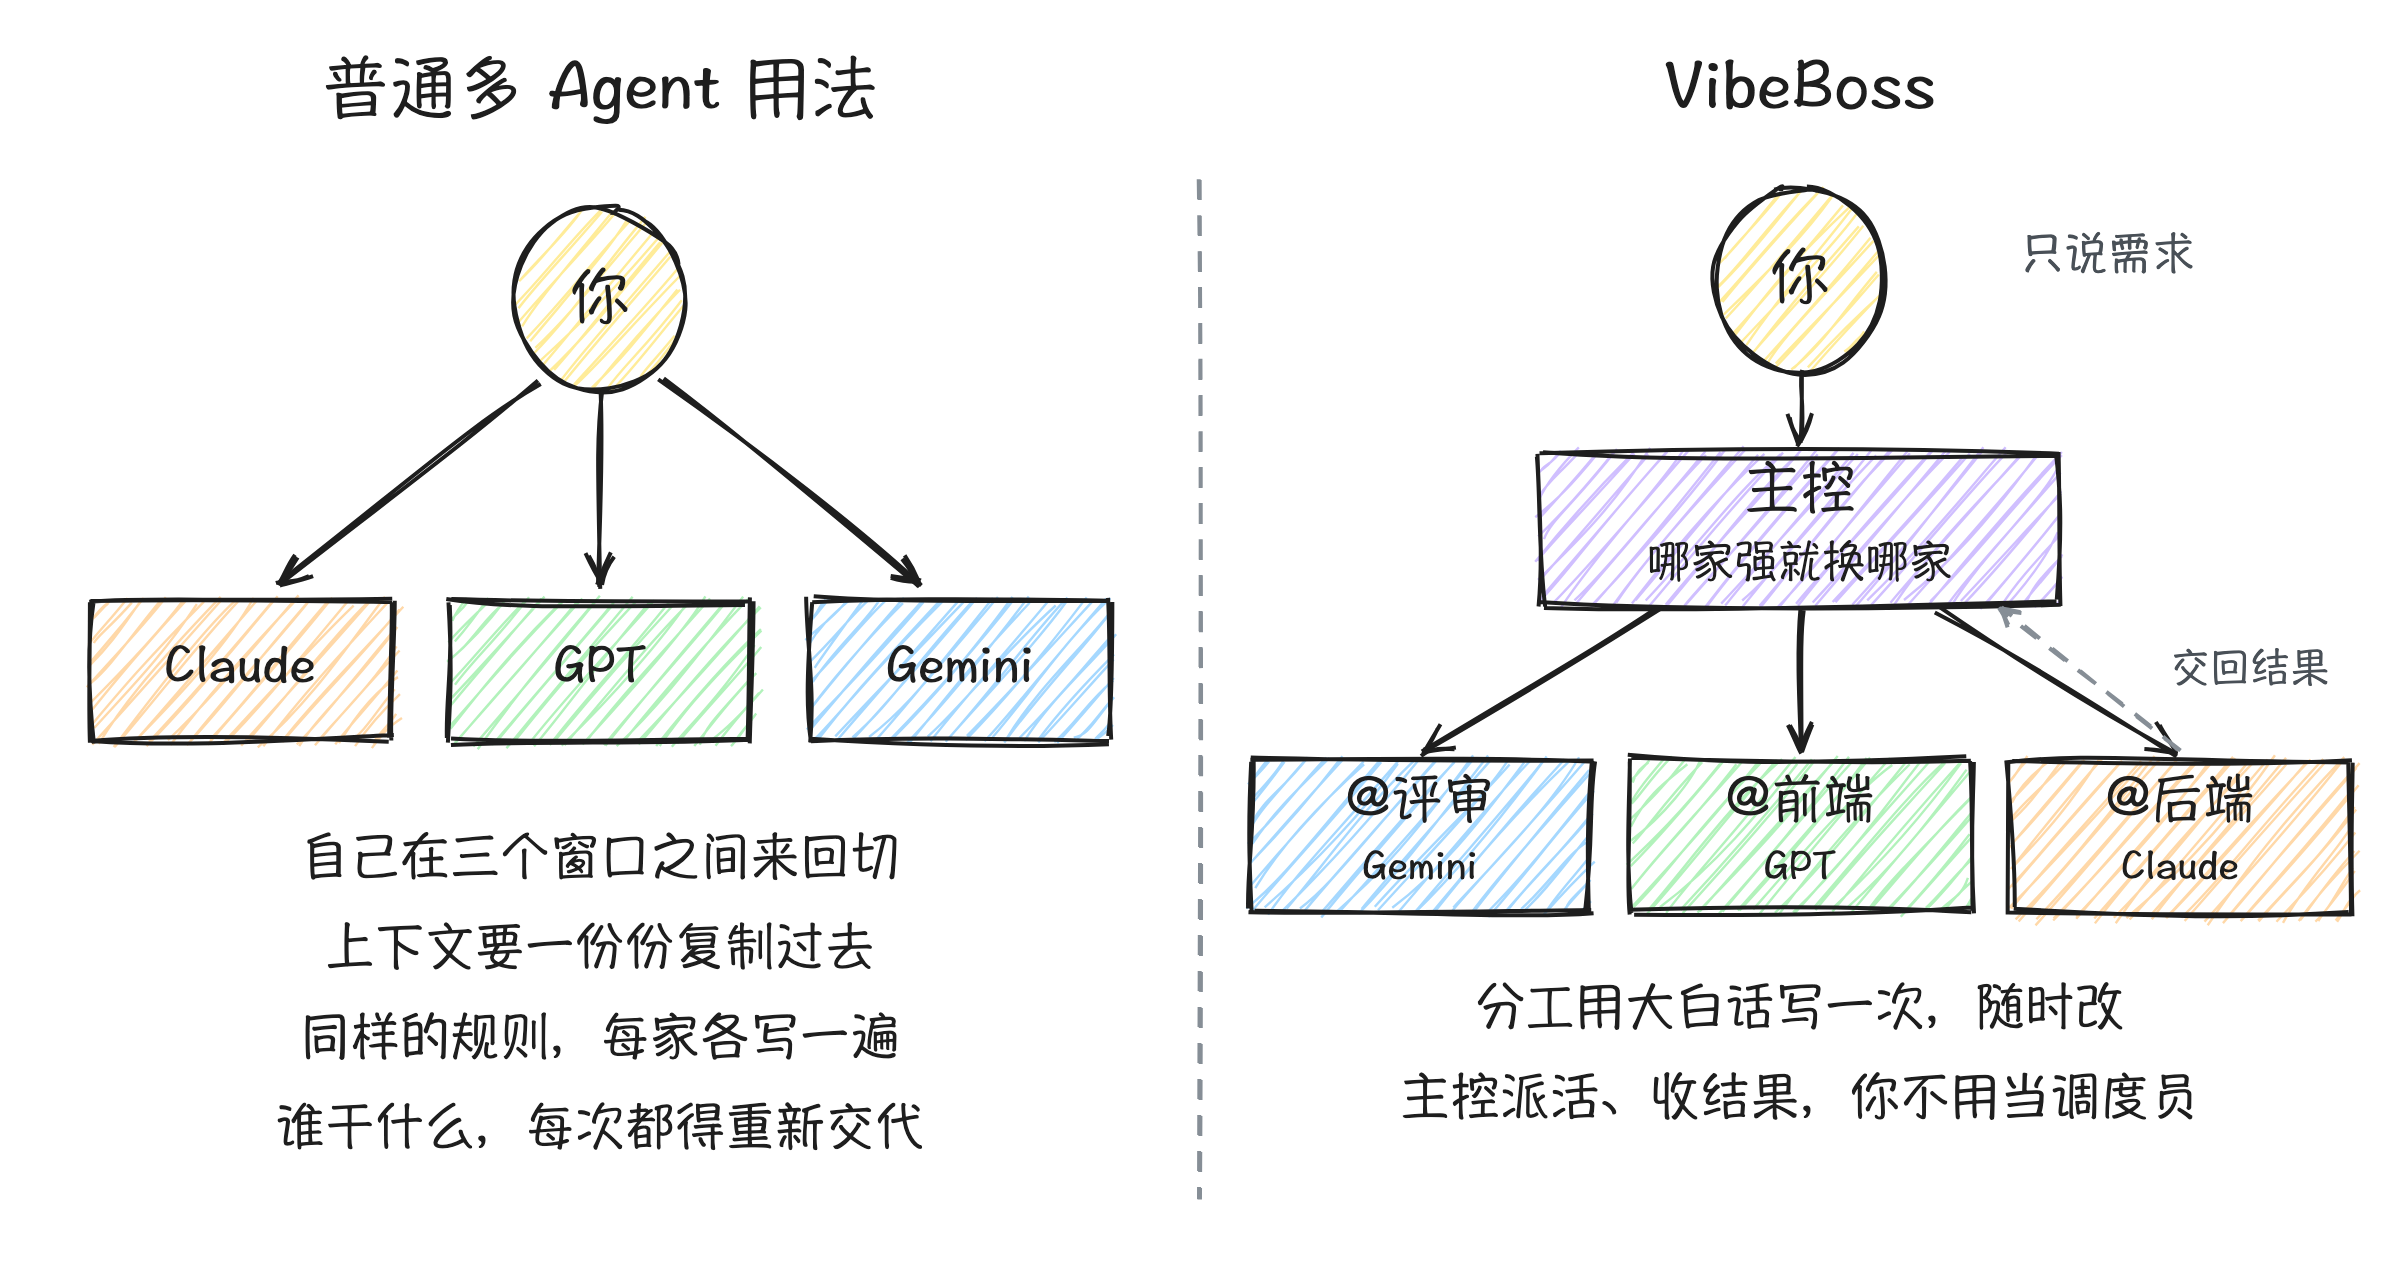
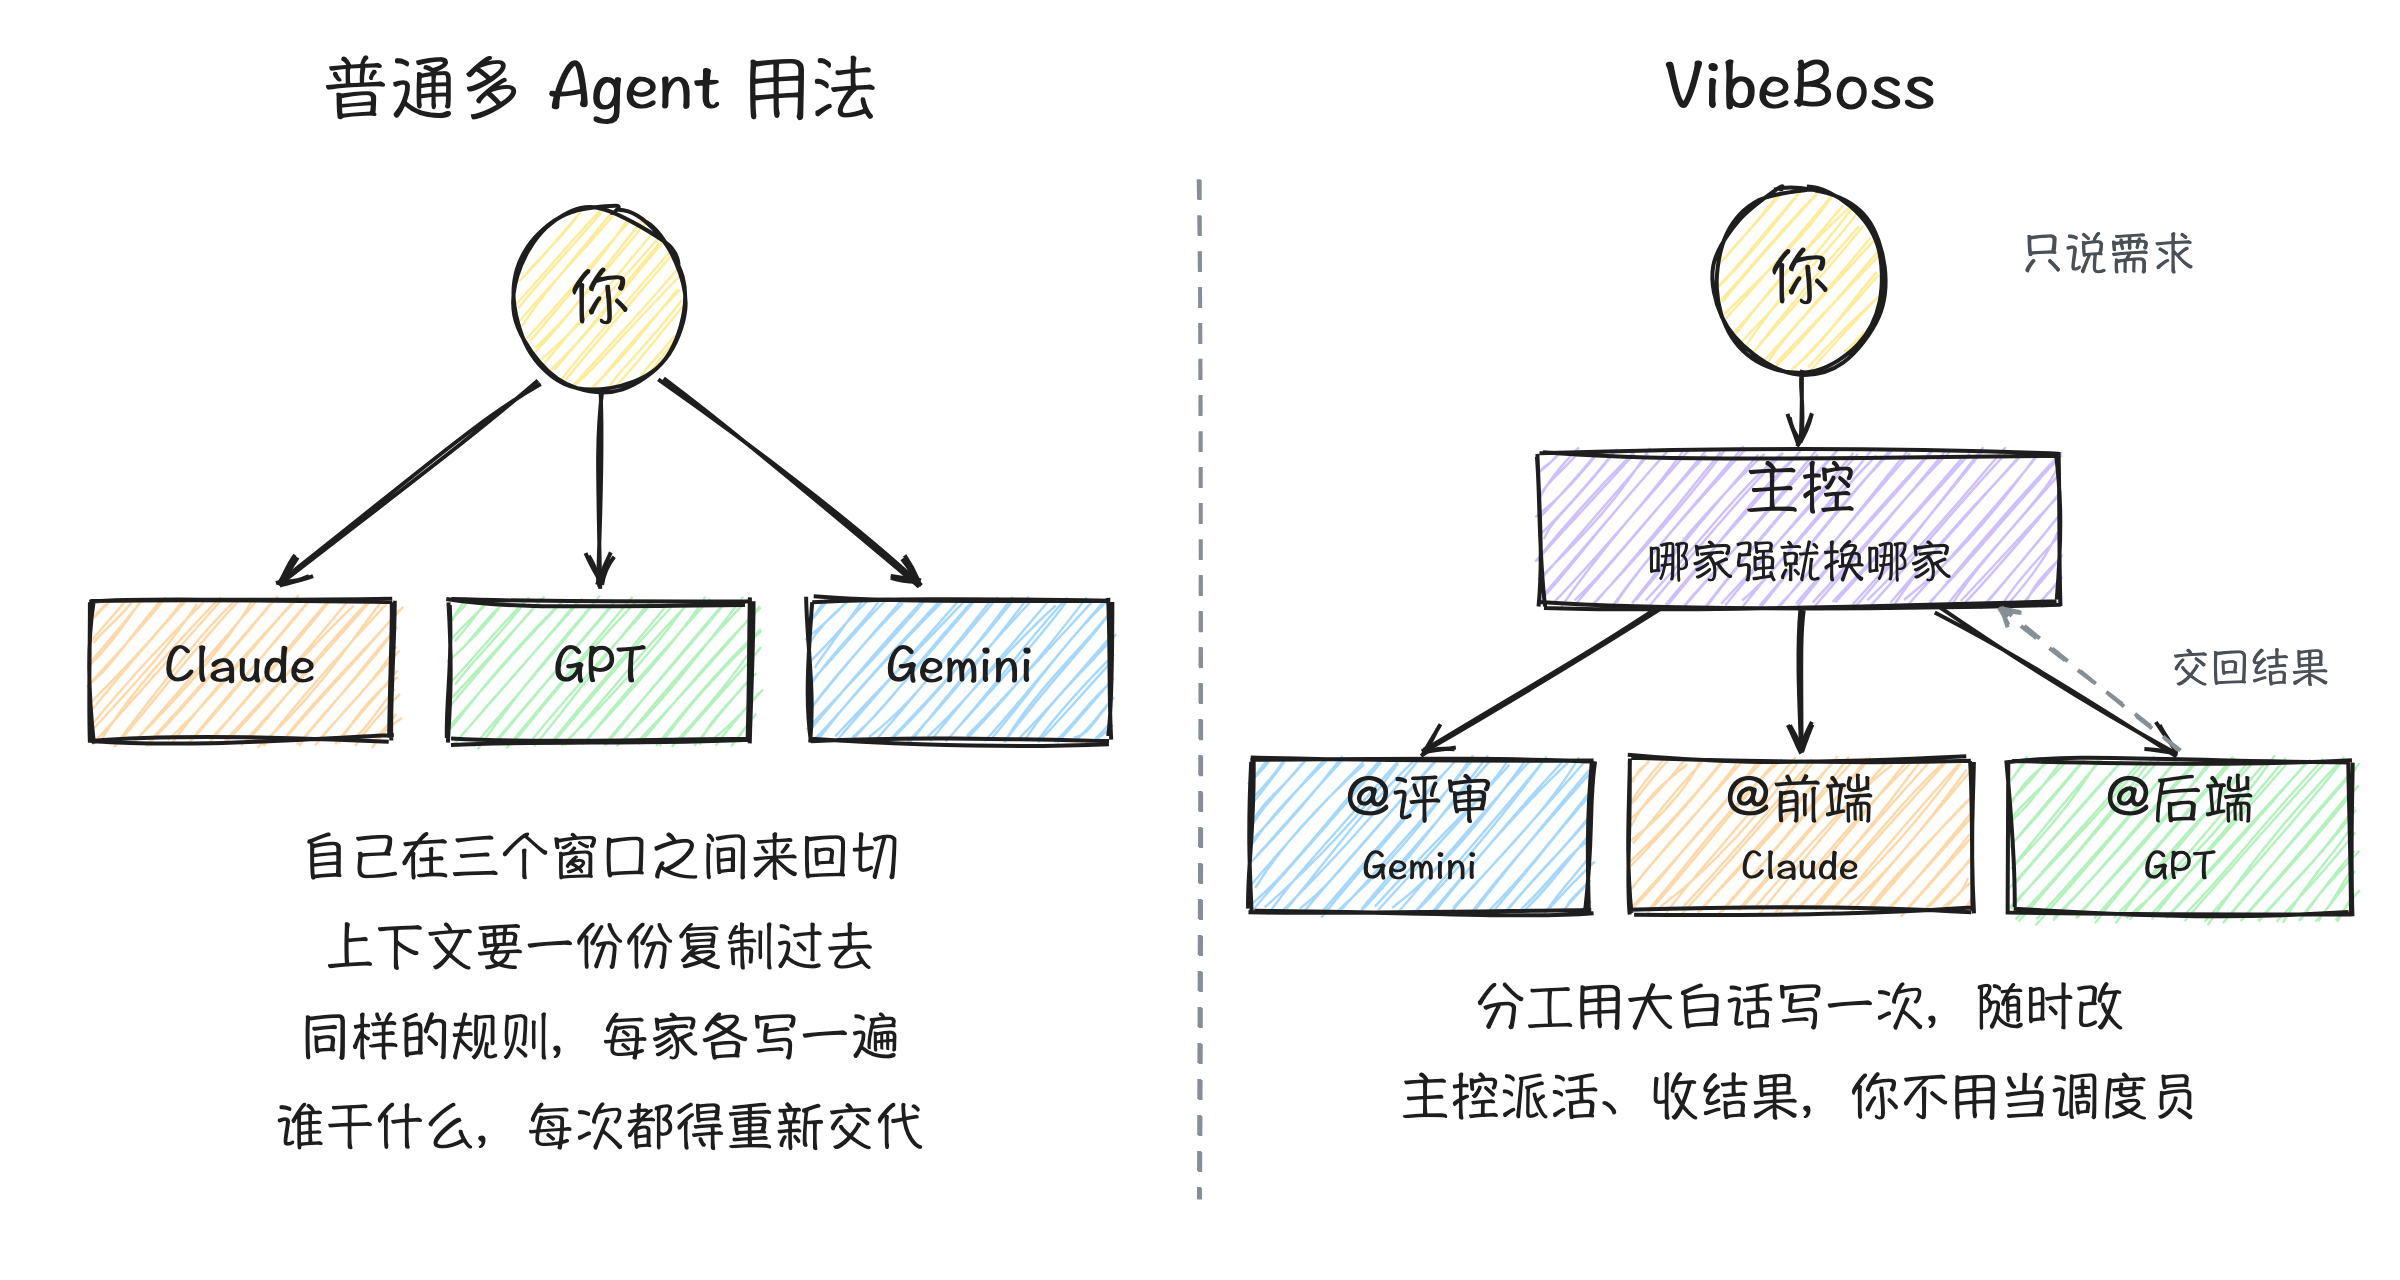
docs: README 分工图改为前端 Claude、后端 GPT

Changed region(s): [[0.6875, 0.5938, 1.0, 0.7188]]

diff --git a/README.md b/README.md
@@ -22,15 +22,15 @@
 
 ## 能做什么
 
-|                                  |                                                                                                                                             |
-| -------------------------------- | ------------------------------------------------------------------------------------------------------------------------------------------- |
-| 🧭 **一个主控，带一支团队**      | 你只面对主控。拆任务、派给谁、收结果都由它按分工完成，不用在几个 Agent 之间来回切换、复制上下文。                                           |
-| 🤝 **三家模型各用所长**          | Codex（GPT）、Claude Code（Claude）、Antigravity（Gemini）同在一个窗口。比如 Claude 统筹、GPT 写后端、Gemini 做前端或评审，怎么分你说了算。 |
-| 👑 **主控随时换**                | 哪天哪家模型特别强，在“分工”页把主控换成它，规则自动跟着重写。                                                                              |
-| ✍ **分工用大白话写**            | 用自然语言写清楚“什么活交给谁、怎么验收”，也可以让 Agent 帮你写。不用搭固定死板的工作流，想调整随时改。                                     |
-| 📜 **规则统一维护**              | 三家相同的规则写成一份公共规则，每家只写自己不同的部分；主控规则只给主控，一键同步，改之前自动备份。                                        |
-| 🧩 **技能、MCP、插件合在一起看** | 三家装的技能、MCP、插件列在同一页，标明哪些共用、哪些只有一家有、哪些版本不一致。                                                           |
-| 📊 **用量一眼看**                | 各家的剩余额度集中显示，Antigravity 的登录过期后会自动续上。                                                                                |
+|                                  |                                                                                                                                               |
+| -------------------------------- | --------------------------------------------------------------------------------------------------------------------------------------------- |
+| 🧭 **一个主控，带一支团队**      | 你只面对主控。拆任务、派给谁、收结果都由它按分工完成，不用在几个 Agent 之间来回切换、复制上下文。                                             |
+| 🤝 **三家模型各用所长**          | Codex（GPT）、Claude Code（Claude）、Antigravity（Gemini）同在一个窗口。比如 Claude 统筹和写前端、GPT 写后端、Gemini 做评审，怎么分你说了算。 |
+| 👑 **主控随时换**                | 哪天哪家模型特别强，在“分工”页把主控换成它，规则自动跟着重写。                                                                                |
+| ✍ **分工用大白话写**            | 用自然语言写清楚“什么活交给谁、怎么验收”，也可以让 Agent 帮你写。不用搭固定死板的工作流，想调整随时改。                                       |
+| 📜 **规则统一维护**              | 三家相同的规则写成一份公共规则，每家只写自己不同的部分；主控规则只给主控，一键同步，改之前自动备份。                                          |
+| 🧩 **技能、MCP、插件合在一起看** | 三家装的技能、MCP、插件列在同一页，标明哪些共用、哪些只有一家有、哪些版本不一致。                                                             |
+| 📊 **用量一眼看**                | 各家的剩余额度集中显示，Antigravity 的登录过期后会自动续上。                                                                                  |
 
 ## 为什么适合产品经理
 
